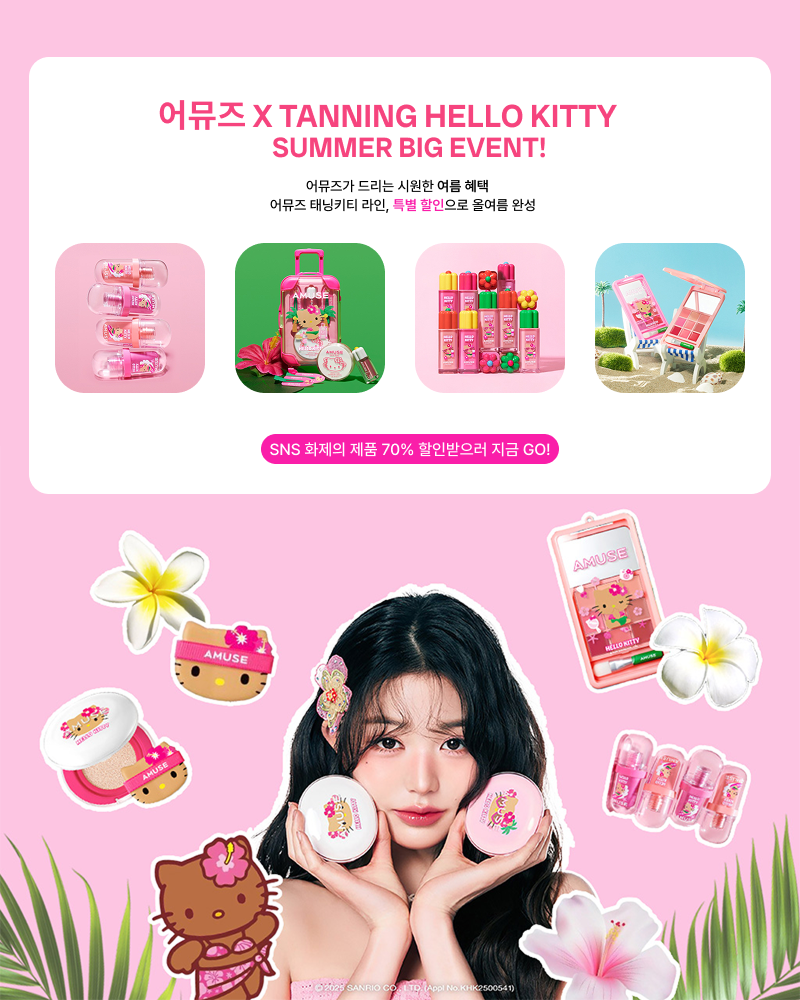
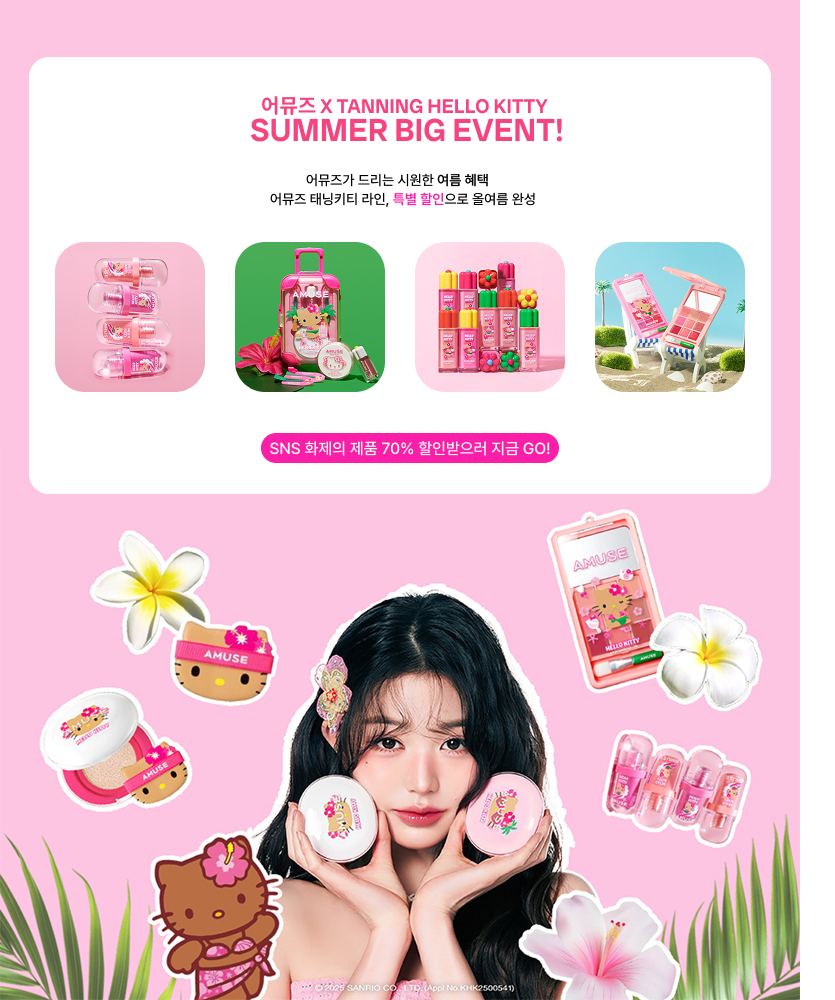
배너 사진 조금수정

diff --git a/index.html b/index.html
@@ -206,8 +206,7 @@
                                 <div class="swiper-slide slide1"><img src="./images/design/sns01.png" alt=""></div>
                                 <div class="swiper-slide slide2"><img src="./images/design/sns02.png" alt=""></div>
                                 <div class="swiper-slide slide3"><img src="./images/design/sns03.jpg" alt=""></div>
-                                <div class="swiper-slide slide4"><img src="./images/design/sns04.png" alt=""></div>
-                                <div class="swiper-slide slide4"><img src="./images/t.jpg" alt=""></div>
+                                <div class="swiper-slide slide4"><img src="./images/design/sns04.jpg" alt=""></div>
                             </div>
                         </div>
                     </div>
